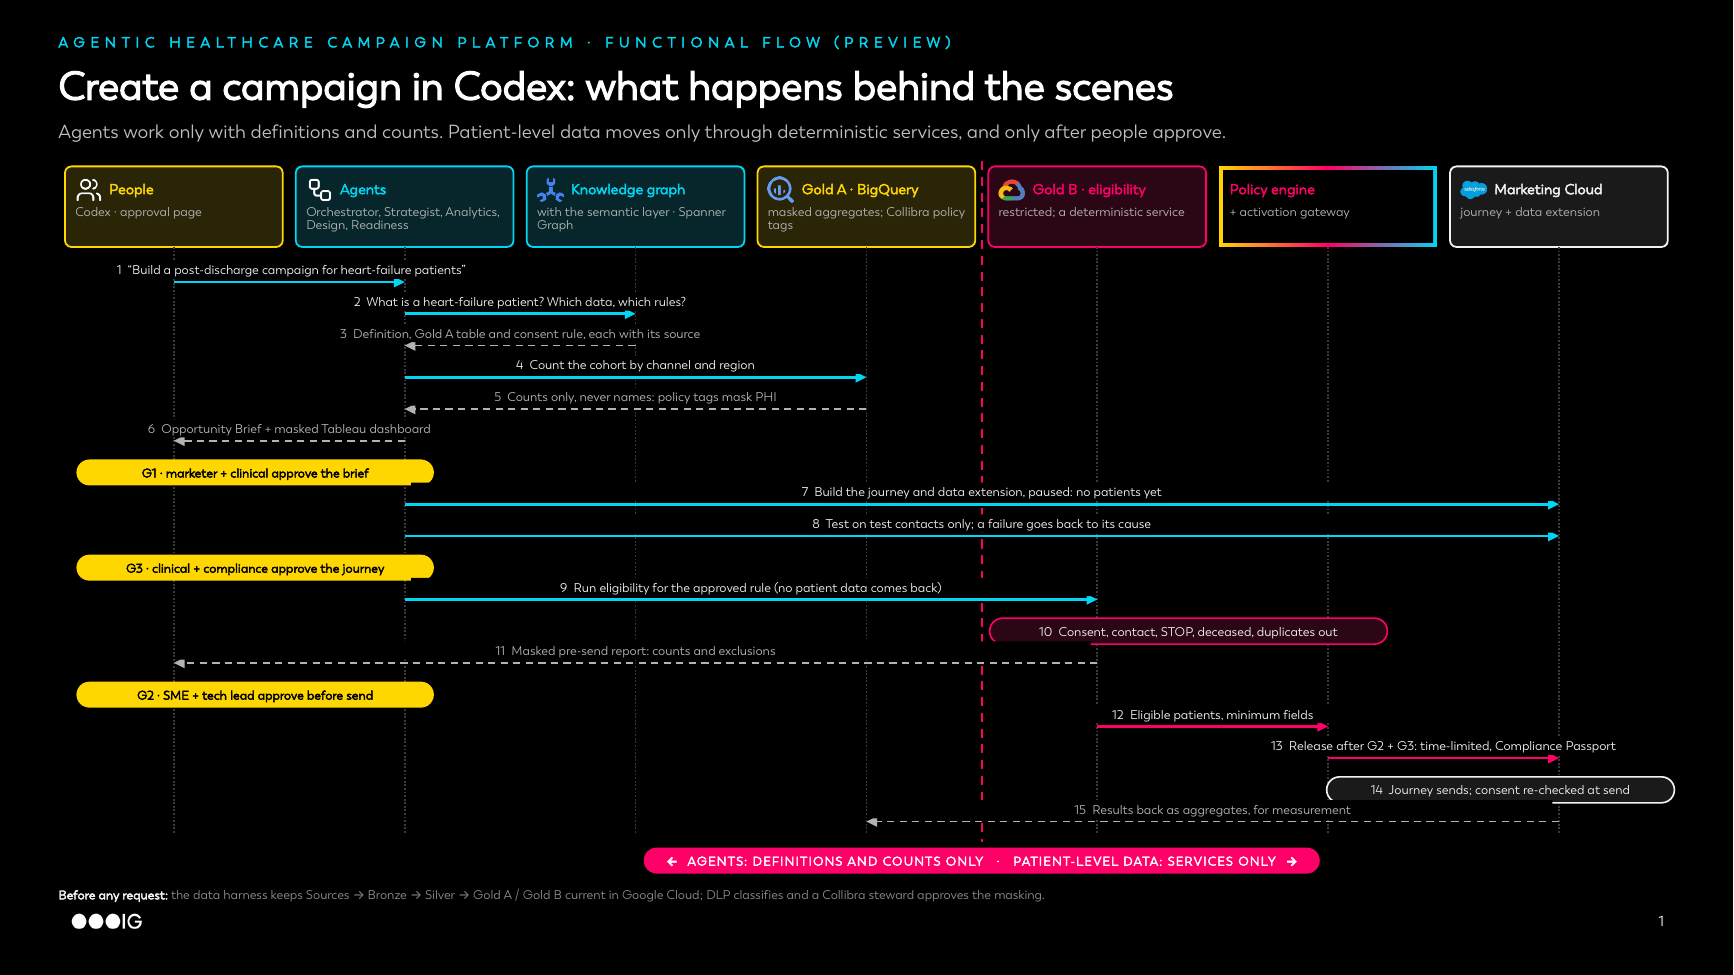
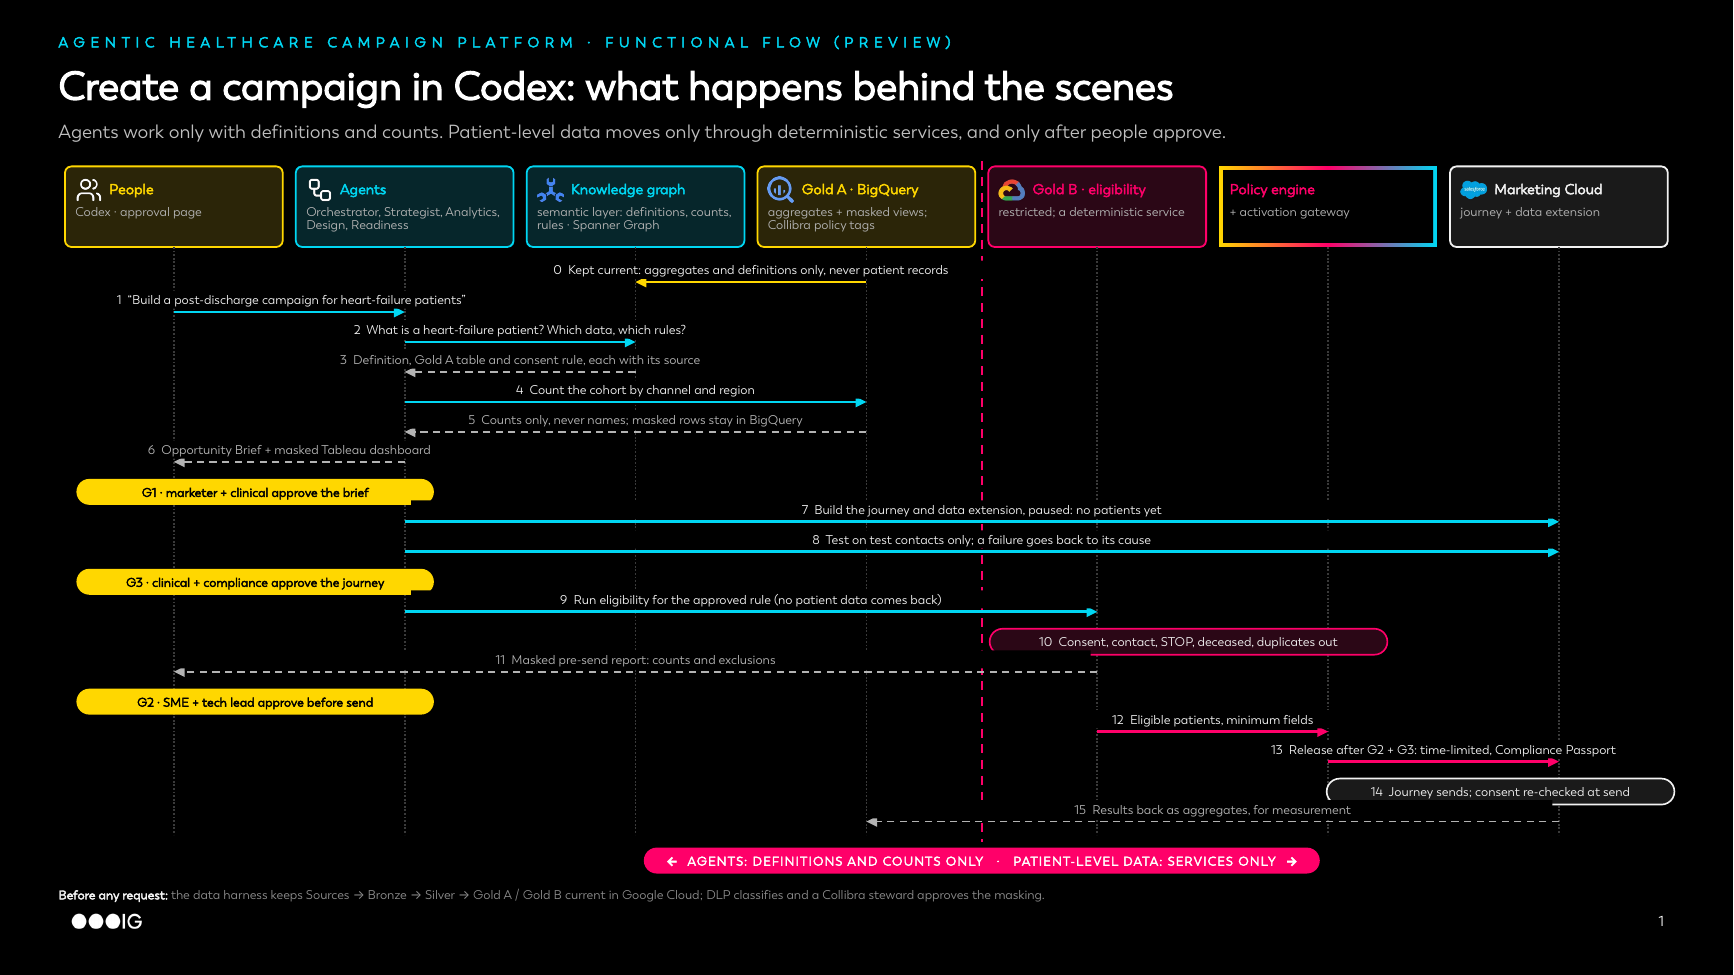
Flow preview: Gold A feeds the knowledge graph aggregates and definitions only
Step 0 shows Gold A keeping the knowledge graph current with aggregates
and definitions, never patient records; masked Gold A rows stay in
BigQuery because masked rows are still PHI.

Claude-Session: https://claude.ai/code/session_01Hf94kqMzSofkkrQm7kpNba

diff --git a/poc/data_harness/mc_backend_flow.py b/poc/data_harness/mc_backend_flow.py
@@ -22,18 +22,19 @@ TINTS = {CYAN: "06262B", YELLOW: "2B2508", MAGENTA: "2B0716", T1: "1A1A1A"}
 
 LANES = [("people", "People", "Codex · approval page", YELLOW),
          ("harness", "Agents", "Orchestrator, Strategist, Analytics, Design, Readiness", CYAN),
-         ("googlecloudspanner", "Knowledge graph", "with the semantic layer · Spanner Graph", CYAN),
-         ("googlebigquery", "Gold A · BigQuery", "masked aggregates; Collibra policy tags", YELLOW),
+         ("googlecloudspanner", "Knowledge graph", "semantic layer: definitions, counts, rules · Spanner Graph", CYAN),
+         ("googlebigquery", "Gold A · BigQuery", "aggregates + masked views; Collibra policy tags", YELLOW),
          ("googlecloud", "Gold B · eligibility", "restricted; a deterministic service", MAGENTA),
          (None, "Policy engine", "+ activation gateway", MAGENTA),
          ("salesforce", "Marketing Cloud", "journey + data extension", T1)]
 
 # (kind, from lane, to lane, label, colour); kinds: msg, ret (dashed return), gate, self
-ROWS = [("msg", 0, 1, "1  “Build a post-discharge campaign for heart-failure patients”", CYAN),
+ROWS = [("msg", 3, 2, "0  Kept current: aggregates and definitions only, never patient records", YELLOW),
+        ("msg", 0, 1, "1  “Build a post-discharge campaign for heart-failure patients”", CYAN),
         ("msg", 1, 2, "2  What is a heart-failure patient? Which data, which rules?", CYAN),
         ("ret", 2, 1, "3  Definition, Gold A table and consent rule, each with its source", T2),
         ("msg", 1, 3, "4  Count the cohort by channel and region", CYAN),
-        ("ret", 3, 1, "5  Counts only, never names: policy tags mask PHI", T2),
+        ("ret", 3, 1, "5  Counts only, never names; masked rows stay in BigQuery", T2),
         ("ret", 1, 0, "6  Opportunity Brief + masked Tableau dashboard", T2),
         ("gate", 0, 0, "G1 · marketer + clinical approve the brief", YELLOW),
         ("msg", 1, 6, "7  Build the journey and data extension, paused: no patients yet", CYAN),
@@ -54,6 +55,7 @@ KEY MESSAGE
 Agents work only with definitions and counts. Patient-level data moves only through deterministic services, and only after people approve.
 
 WALK IT (top to bottom)
+0 Before any request, Gold A keeps the knowledge graph current with aggregates and definitions only: what the data means and how much there is, never who the patients are. Masked Gold A rows are still PHI, so they stay in BigQuery.
 1 The marketer asks in Codex. 2-3 The agents ask the knowledge graph what a heart-failure patient is; the semantic layer answers with the definition, the Gold A table and the consent rule, each cited. 4-5 They count the cohort in Gold A; masked views return counts, never names. 6 The Opportunity Brief and a masked Tableau dashboard go to people, who approve it (G1).
 7-8 The Campaign Design Agent builds the journey and data extension, paused, and the Readiness Agent tests on test contacts; clinical and compliance approve (G3).
 9-11 The eligibility service, not an agent, applies the rule on Gold B (consent, contact, STOP, deceased, duplicates) and sends a masked pre-send report; the SME and tech lead approve (G2).
